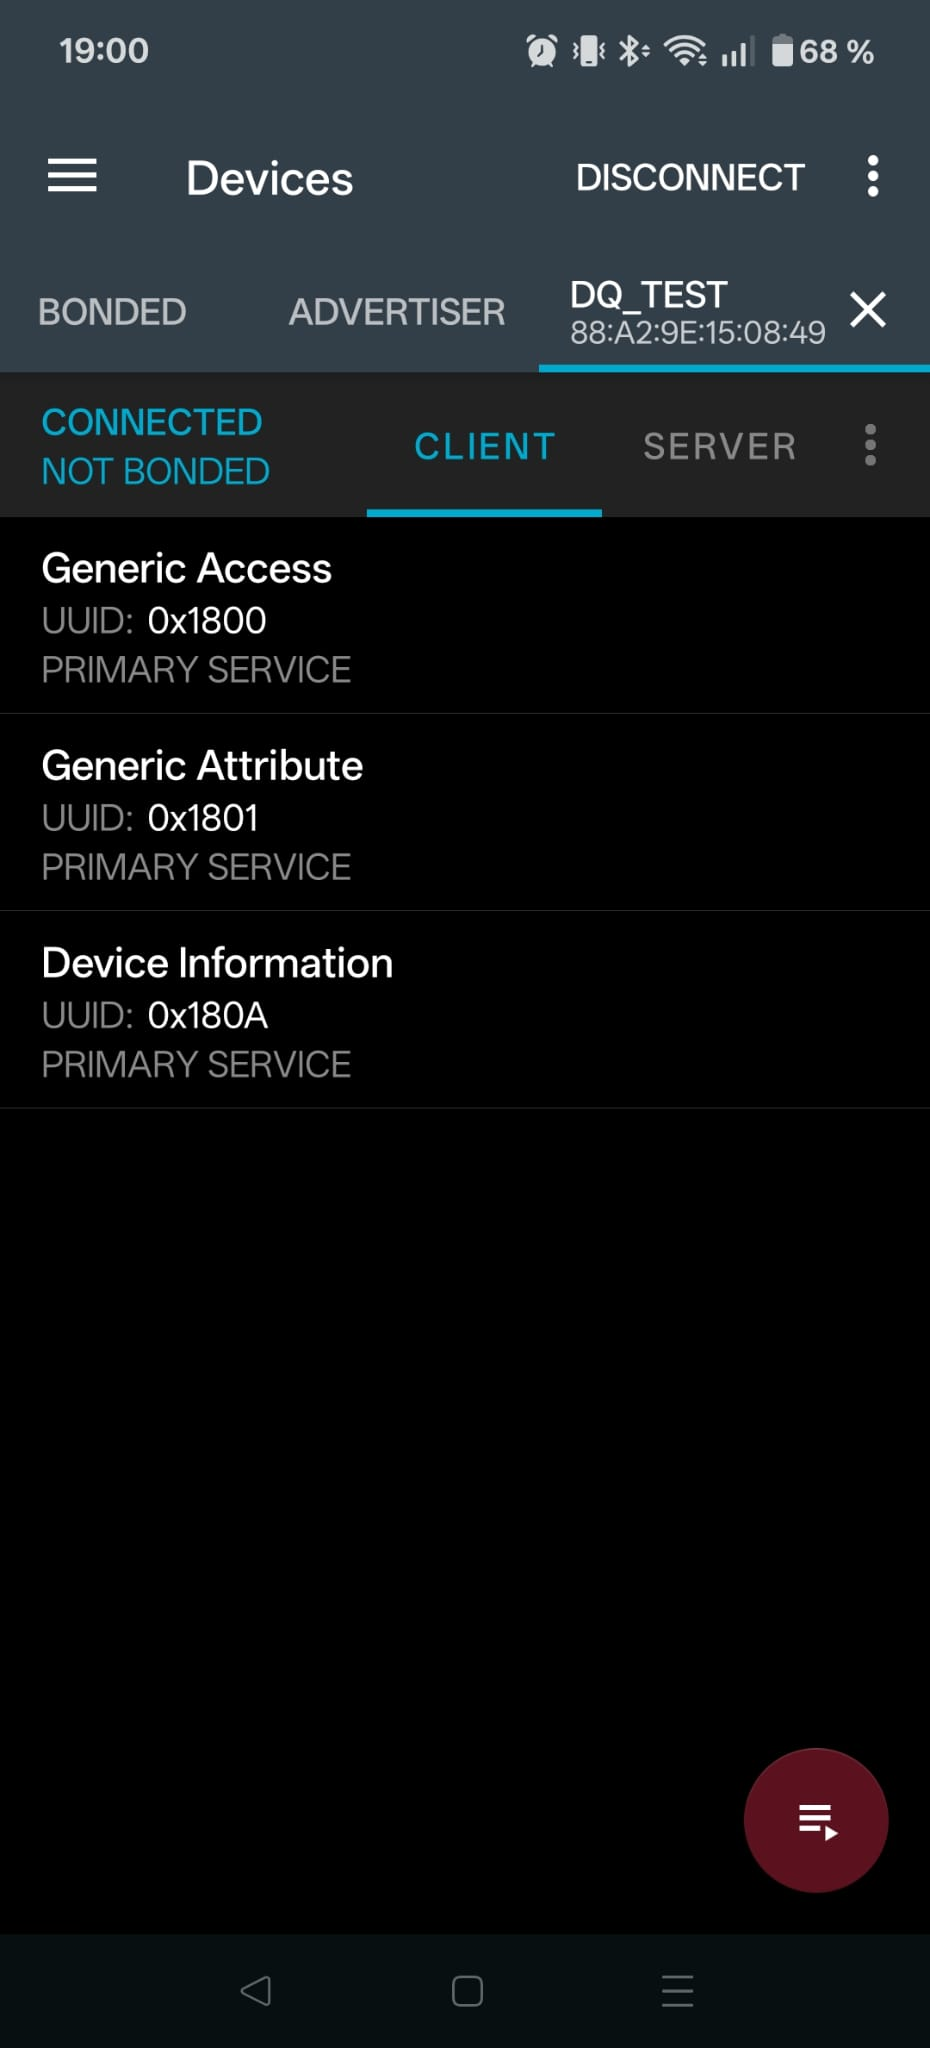
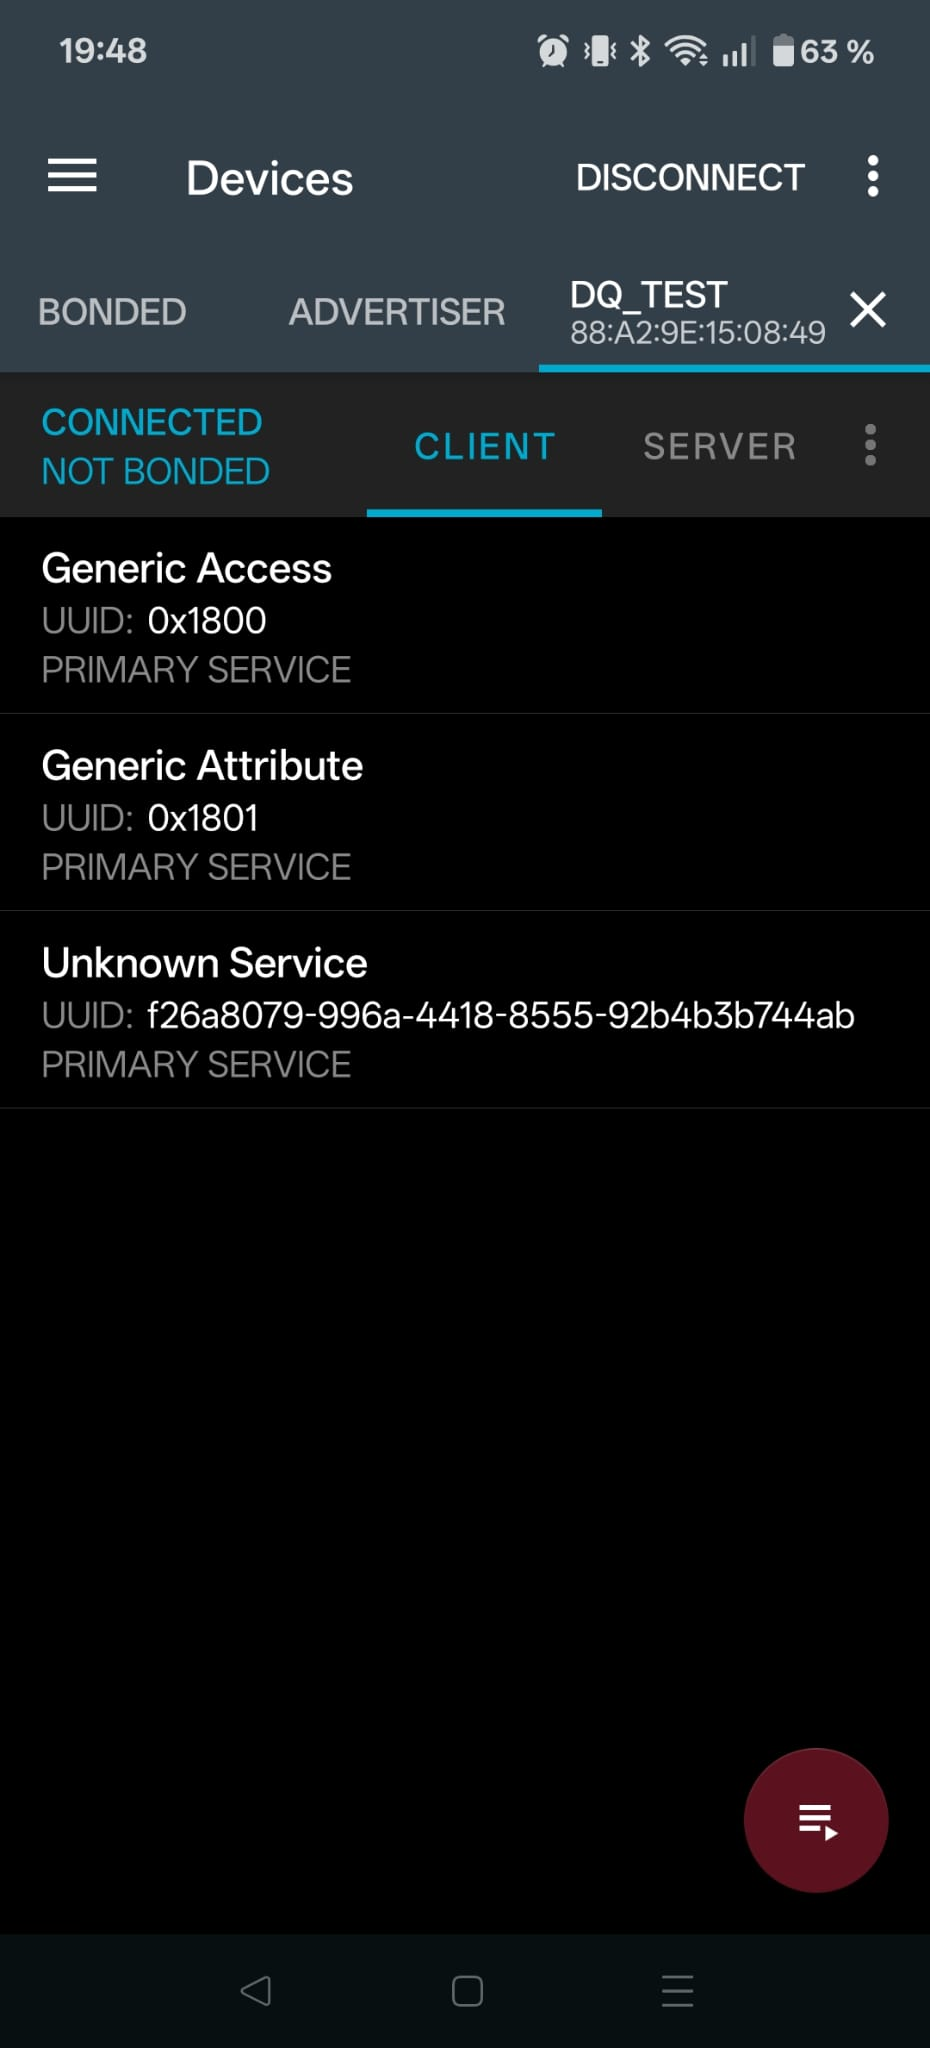
fix(ble): use proper 128bit UUIDs for GATT service and characteristic
This avoids using the reserved 16-bit namespace, which shouldn't be used since it could technically lead to collisions if the Bluetooth SIG ever defines new IDs in their reserved space.

Fixing this reduces the amount of space available for the device name from 22 to 8 bytes, which is adjusted in code and docs.
In addition, the testing instructions and screenshots are updated and now reference the new IDs which were randomly generated with UUIDv4.

Note that there is no way to set a custom name for a custom BLE service that I could find, so now both the characteristic and the service show as "unknown" in nRF Connect.

diff --git a/04c-wifi-ble/example/src/ble.rs b/04c-wifi-ble/example/src/ble.rs
@@ -32,10 +32,13 @@ struct Server {
     led_service: LedService,
 }
 
+const LED_SERVICE_ID: u128 = 0xf26a8079_996a_4418_8555_92b4b3b744ab;
+const LED_COLOR_UUID: u128 = 0x98666659_8007_46a1_a979_e4fe54a62a5f;
+
 /// GATT service providing capabilities to read and set the LED color.
 ///
 /// As there is no standard UUID for "tri-color RGB LEDs" defined, we use one without a standard meaning.
-#[gatt_service(uuid = BluetoothUuid16::new(0x180a))]
+#[gatt_service(uuid = BluetoothUuid128::new(LED_SERVICE_ID))]
 struct LedService {
     /// Characteristic of the GATT service setting the actual color.
     ///
@@ -44,7 +47,7 @@ struct LedService {
     /// Again, there is no standard cahracteristic defined, so we use one without a standard meaning.
     #[descriptor(uuid = descriptors::VALID_RANGE, read, value = [0, 2])]
     #[descriptor(uuid = descriptors::MEASUREMENT_DESCRIPTION, name = "color", read, value = "LED Color", type = &'static str)]
-    #[characteristic(uuid = BluetoothUuid16::new(0x2a57), read, write, notify, value = 0)]
+    #[characteristic(uuid = BluetoothUuid128::new(LED_COLOR_UUID), read, write, notify, value = 0)]
     color: u8,
 }
 
@@ -70,7 +73,7 @@ impl BleConnectionRunner {
         let len = AdStructure::encode_slice(
             &[
                 AdStructure::Flags(LE_GENERAL_DISCOVERABLE | BR_EDR_NOT_SUPPORTED),
-                AdStructure::CompleteServiceUuids16(&[[0x0a, 0x18]]),
+                AdStructure::CompleteServiceUuids128(&[LED_SERVICE_ID.to_le_bytes()]),
                 AdStructure::CompleteLocalName(name.as_bytes()),
             ],
             &mut advertiser_data[..],

diff --git a/04c-wifi-ble/example/src/main.rs b/04c-wifi-ble/example/src/main.rs
@@ -35,8 +35,8 @@ use {defmt_rtt as _, panic_probe as _};
 const SSID: &str = env!("SSID");
 const PASSWORD: &str = env!("PASSWORD");
 const BLE_NAME: &str = env!("BLE_NAME");
-// BLE advertisement packets are limited to 31 bytes; our payload leaves 22 bytes for the name.
-const _: () = assert!(BLE_NAME.as_bytes().len() <= 22);
+// BLE advertisement packets are limited to 31 bytes; our payload leaves 8 bytes for the name.
+const _: () = assert!(BLE_NAME.as_bytes().len() <= 8);
 
 // How many concurrent requests can we handle?
 const WEB_TASK_POOL_SIZE: usize = 8;

diff --git a/04c-wifi-ble/src/main.rs b/04c-wifi-ble/src/main.rs
@@ -35,8 +35,8 @@ use {defmt_rtt as _, panic_probe as _};
 const SSID: &str = env!("SSID");
 const PASSWORD: &str = env!("PASSWORD");
 const BLE_NAME: &str = env!("BLE_NAME");
-// BLE advertisement packets are limited to 31 bytes; our payload leaves 22 bytes for the name.
-const _: () = assert!(BLE_NAME.as_bytes().len() <= 22);
+// BLE advertisement packets are limited to 31 bytes; our payload leaves 8 bytes for the name.
+const _: () = assert!(BLE_NAME.as_bytes().len() <= 8);
 
 // How many concurrent requests can we handle?
 const WEB_TASK_POOL_SIZE: usize = 8;

diff --git a/04c-wifi-ble/BLE_TESTING.md b/04c-wifi-ble/BLE_TESTING.md
@@ -17,7 +17,7 @@ To avoid that, before the program will compile you'll need to provide a short un
 This value is used directly as the advertised Bluetooth device name — for example, `BLE_NAME=Alice` gives **Alice**, and `BLE_NAME=Table-7` gives **Table-7**.
 
 Pick something you will recognize in the scan list on your laptop or phone.
-The name must fit into a single BLE advertisement packet, so keep it to 22 characters or fewer (to understand why this exact number, see [Advertisements](./README.md#advertisements)).
+The name must fit into a single BLE advertisement packet, which we already use to transmit other information like the service UUID, so keep it to 8 characters or fewer (to understand why this exact number, see [Advertisements](./README.md#advertisements)).
 
 Like the WiFi credentials from the previous exercise, export `BLE_NAME` before building or flashing:
 
@@ -48,9 +48,9 @@ This will open a new tab for the device showing it as a client that displays the
 
 </div>
 
-The client should advertise a service with UUID `0x180A`, which is the ID we set in the exercise.
+The client should advertise a service with UUID `0xf26a8079_996a_4418_8555_92b4b3b744ab`, which is the ID we set in the exercise.
 There might be some additional "generic" services listed, which you can safely ignore.
-Tapping on the service with this ID expands it to expose the characteristic for the LED with UUID `0x2A57`:
+Tapping on the service with this ID expands it to expose the characteristic for the LED with UUID `0x98666659_8007_46a1_a979_e4fe54a62a5f`:
 
 <div align="center">
 
@@ -62,11 +62,11 @@ Tapping on the service with this ID expands it to expose the characteristic for 
 
 You should see that the characteristic supports reading, writing, and notifying.
 This is indicated under "properties".
-You can read the value by tapping the single down arrow next to the "Digital Output" label.
+You can read the value by tapping the single down arrow next to the "Unknown Characteristic" label.
 When tapping the other "single down arrow" buttons, you should be able to see that the characteristic is for the LED color (measurement description) and that the valid value range starts at `0x00` (red) and ends at `0x02` (blue).
 Reading the characteristic should return the current LED color as one of those three byte values.
 
-Writing a single byte in that range should change the LED, which you should be able to test by tapping the single up arrow next to "Digital Output" and submitting the value through the pop-up dialog:
+Writing a single byte in that range should change the LED, which you should be able to test by tapping the single up arrow next to "Unknown Characteristic" and submitting the value through the pop-up dialog:
 
 <div align="center">
 

diff --git a/04c-wifi-ble/README.md b/04c-wifi-ble/README.md
@@ -126,8 +126,7 @@ There is also metadata that can be attached to characteristics, such as their al
 Metadata is optional and each piece of metadata is called a **descriptor**.
 
 Characteristics, services and descriptors are all attributes in GATT and each attribute is tagged with a unique ID for reference.
-Usually, full UUIDs are 128 bits, but we'll be using shorter 16-bit IDs which are also supported.
-Some IDs are predefined and are always used for specific purposes.
+Full UUIDs are 128 bits, with shorter 16- and 32-bit IDs reserved for special purposes.
 For example, you will see that the Pico 2 will show a "Generic Access" GATT service, which contains the device name and what is called the "appearance", which in our case will indicate that the device is an LED.
 
 #### Notifications & Indications
@@ -202,7 +201,8 @@ Then, provide the LED service as the single service of our `ble::Server`.
 
 Remember that, initially, the LED will be RED.
 Your definition should include a name for the characteristic, as well as the range of valid values.
-Give the service the ID `0x180A` and the color characteristic the ID `0x2A57`.
+We have pre-generated unique IDs for our LED service and color characteristic which do not conflict with any predefined IDs:
+please set the service UUID to `0xf26a8079_996a_4418_8555_92b4b3b744ab` and the UUID for the color characteristic to `0x98666659_8007_46a1_a979_e4fe54a62a5f`.
 
 > [!TIP]
 > You can find the TrouBLE documentation on GATT services [here](https://embassy.dev/trouble/#_defining_services).
